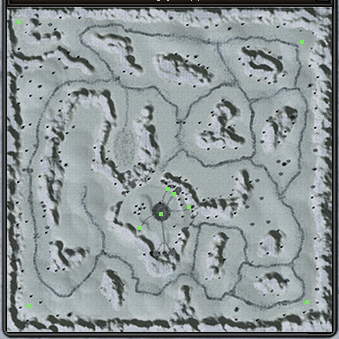
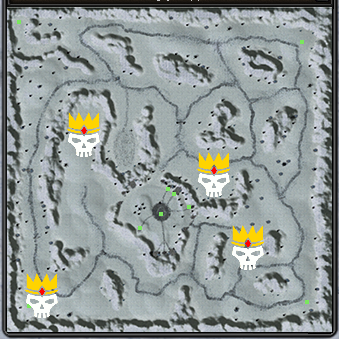
added map support

diff --git a/index.html b/index.html
@@ -40,7 +40,7 @@
     <div class="col-xl timery">
         <label for="sel1">Wybierz bossa/metina: </label>
         <div class="row">
-            <div class="col-xl-10 col-lg-9 col-md-9 col-sm-12 col-xs-12">
+            <div class="col-xl-8 col-lg-6 col-md-6 col-sm-12 col-xs-12">
                 <select class="form-control" id="bossControl">
                     <option>Mylfid</option>
                     <option>Olimpus</option>
@@ -53,8 +53,16 @@
                     <option>Metin Asherod</option>
                 </select>
             </div>
-            <div class="col-xl-2 col-lg-3 col-md-3 col-sm-12 col-xs-12">
+            <div class="col-xl-2 col-lg-3 col-md-3 col-sm-6 col-xs-12">
+                <button class="btn btn-info float-right btnmap" style="width:100%">Mapa</button>
+            </div>
+            <div class="col-xl-2 col-lg-3 col-md-3 col-sm-6 col-xs-12">
                 <button class="btn btn-danger float-right btnresetall" style="width:100%">Zresetuj wszystko</button>
+            </div>
+        </div>
+        <div class="row">
+            <div class="mx-auto">
+                <img src="/static/maps/Mylfid.png" class="img-fluid map">
             </div>
         </div>
         <div class="card-group">

diff --git a/static/timer.js b/static/timer.js
@@ -99,6 +99,7 @@ $("#bossControl").change(function () {
         bossList[i].startTime = respawnTimes[this.selectedIndex];
         bossList[i].name = bossNames[this.selectedIndex];
         bossList[i].reset();
+        $(".map").attr("src", "static/maps/" + bossNames[this.selectedIndex] + ".png")
     }
 });
 
@@ -107,6 +108,12 @@ $(".btnresetall").click(function () {
         bossList[i].reset();
     }
 });
+
+$(".btnmap").click(function () {
+    console.log('iza sosna');
+    $(".map").slideToggle(230);
+});
+
 
 
 if (Notification.permission !== "denied" && Notification.permission !== "granted") {

diff --git a/static/style.css b/static/style.css
@@ -12,4 +12,9 @@
 
 .card-group{
     margin: 5px;
-}m
+}
+
+.map{
+    display:none;
+    margin-top: 10px;
+}
